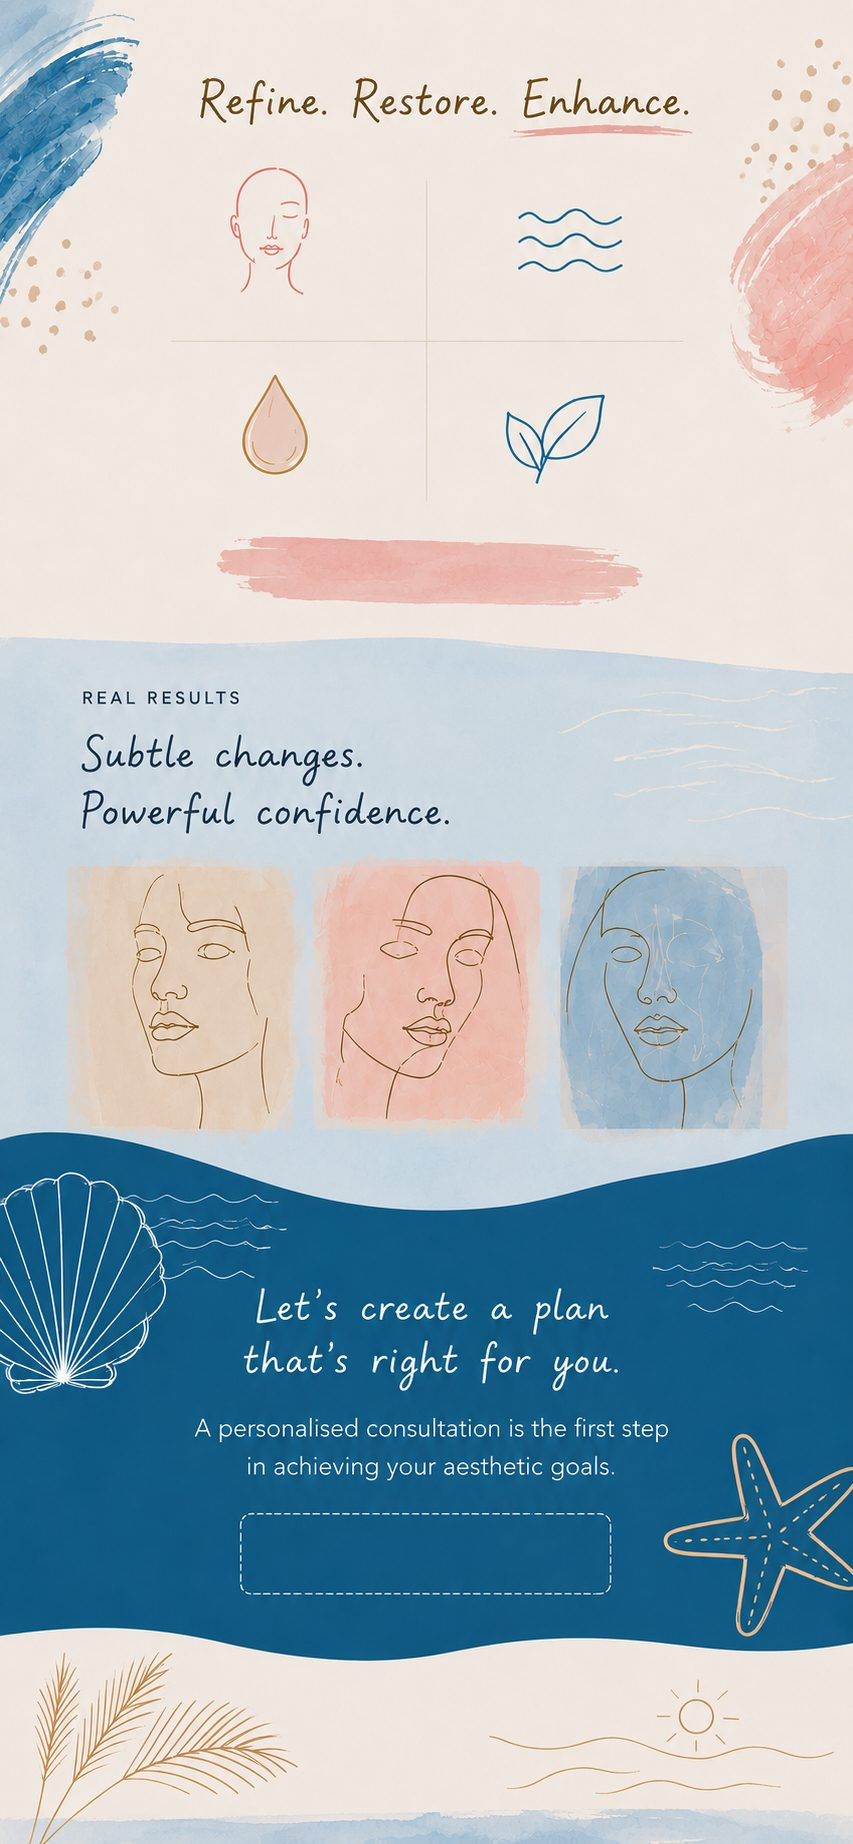
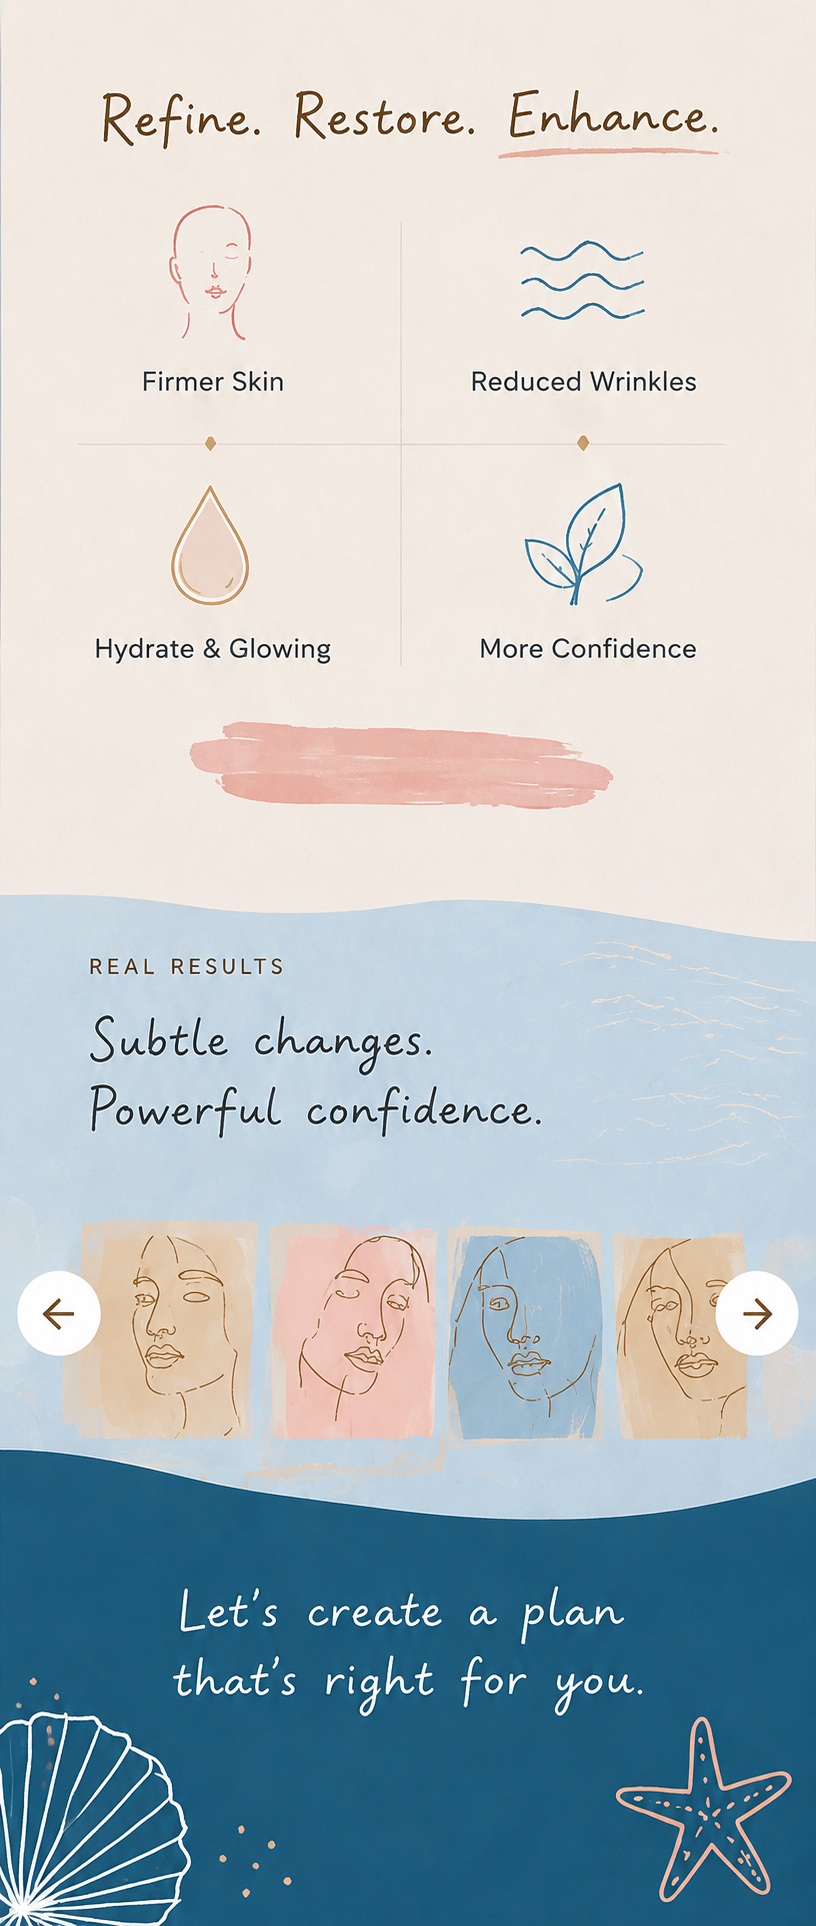
updated treatments mobile

diff --git a/assets/style.css b/assets/style.css
@@ -236,21 +236,22 @@ a{ color:inherit; }
   height:1px;
 }
 /* Treatments + results, combined mobile art */
-.mobile-treat-label{
-  width:44%;
+.mobile-book-now{
+  left:23.2%;
+  top:37.4%;
+  width:51.8%;
+  height:4.6%;
+  display:flex;
+  align-items:center;
+  justify-content:center;
   text-align:center;
-  font-family:var(--font-body);
+  font-family:var(--font-brush);
   font-weight:600;
-  font-size:.62rem;
-  letter-spacing:.04em;
-  line-height:1.25;
-  color:var(--brown-dark);
-  text-transform:uppercase;
+  font-size:clamp(1.3rem, 1rem + 1.5vw, 1.7rem);
+  color:var(--ink) !important;
+  text-decoration:none;
+  letter-spacing:.01em;
 }
-.mobile-treat-label.label-1{ left:3%;  top:15.9%; }
-.mobile-treat-label.label-2{ left:53%; top:15.9%; }
-.mobile-treat-label.label-3{ left:3%;  top:26.6%; }
-.mobile-treat-label.label-4{ left:53%; top:26.6%; }
 
 /* ---------------- Footer ---------------- */
 .site-footer{

diff --git a/index.html b/index.html
@@ -64,10 +64,7 @@
   <section class="art-section treatments-results-mobile mobile-only">
     <img src="assets/img/mobile-treatments.jpg" alt="Refine. Restore. Enhance. Real results — subtle changes, powerful confidence. Let's create a plan that's right for you." class="art-bg">
 
-    <div class="hotspot mobile-treat-label label-1">Firmer-looking skin</div>
-    <div class="hotspot mobile-treat-label label-2">Smoother-looking skin</div>
-    <div class="hotspot mobile-treat-label label-3">Hydrated &amp; glowing</div>
-    <div class="hotspot mobile-treat-label label-4">More confidence</div>
+    <a href="#book" class="hotspot mobile-book-now">Book now</a>
   </section>
 
   <!-- ============ FOOTER ============ -->
